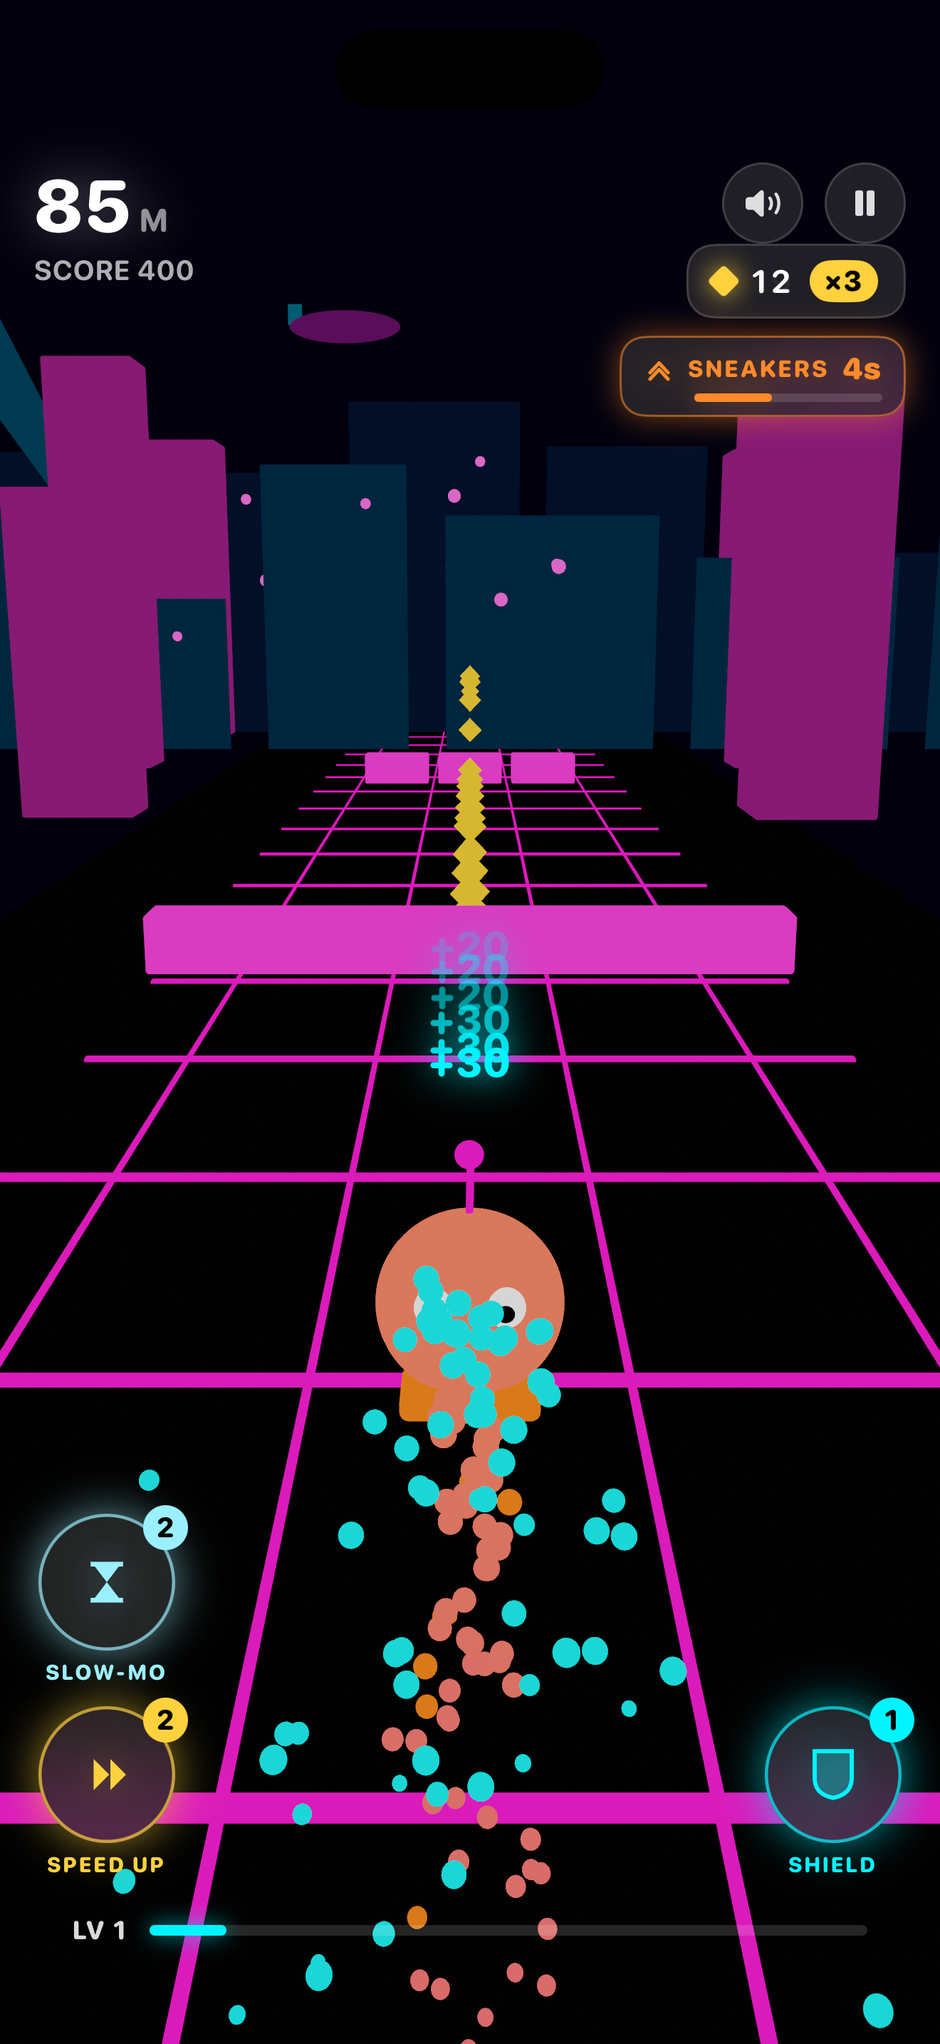
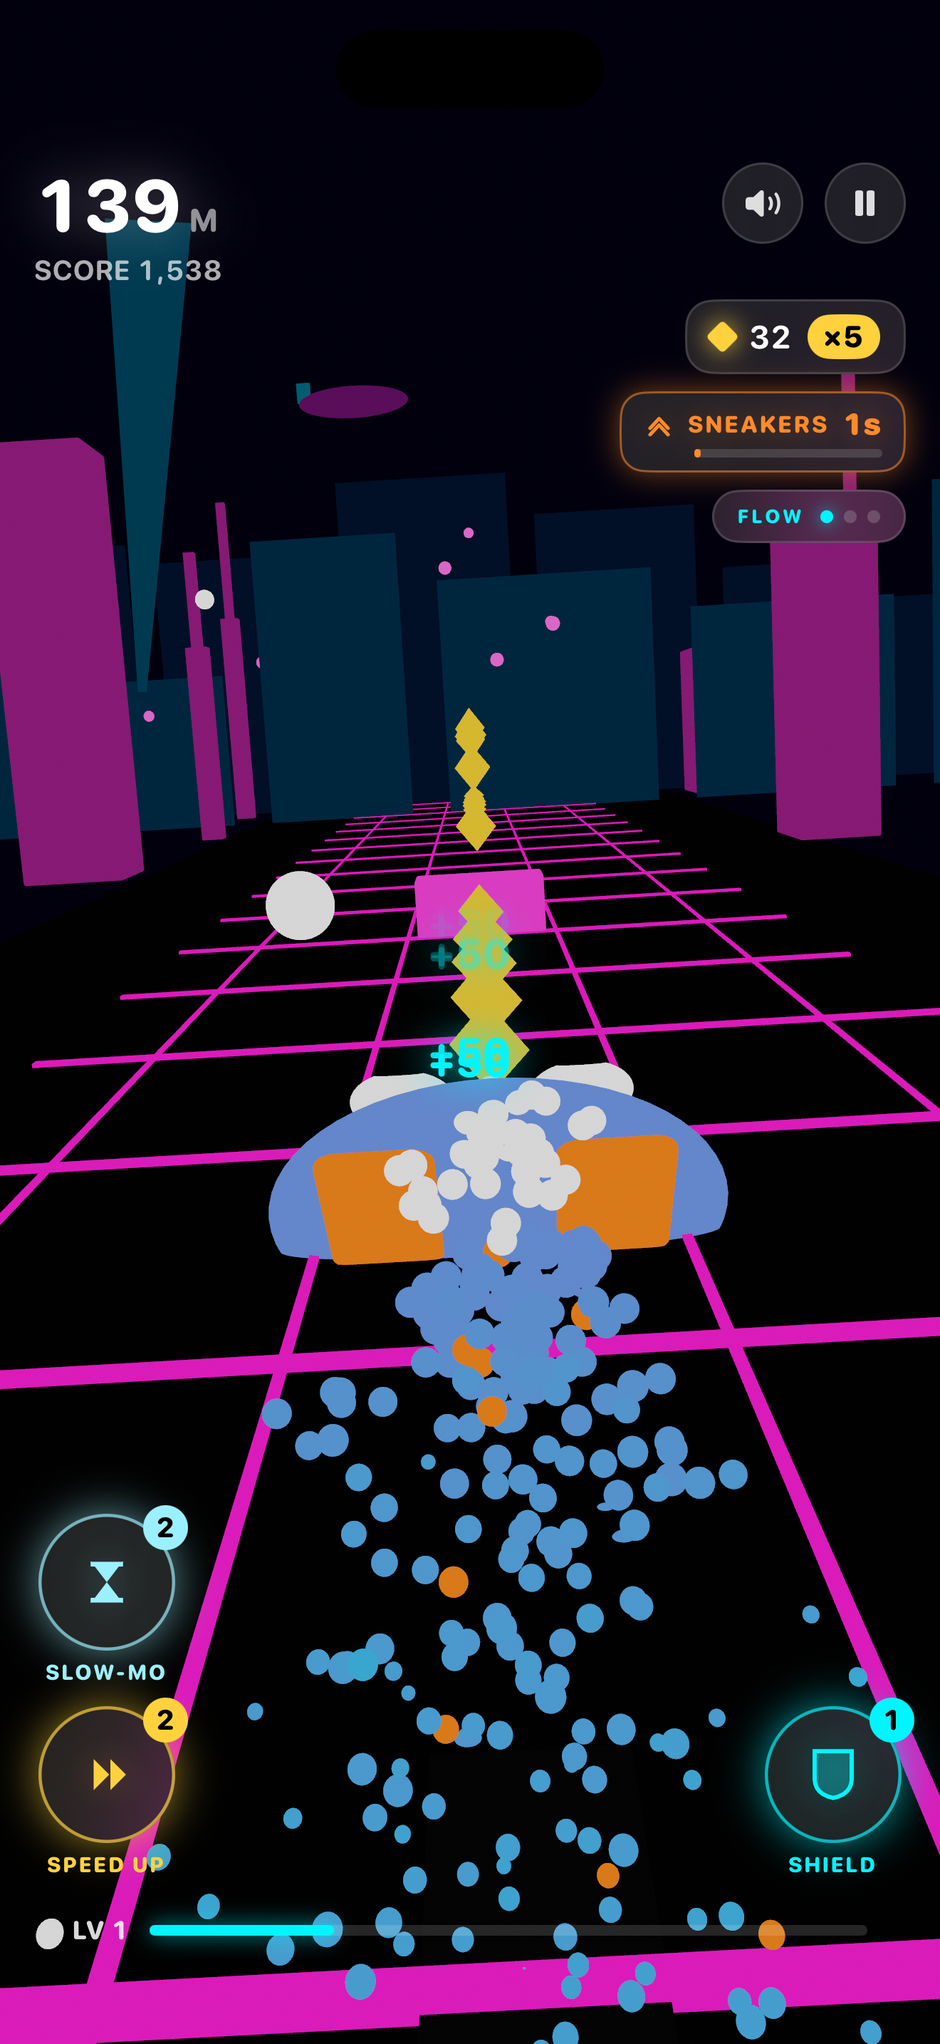
docs: rework README for the current v1.6 build — fresh screenshots + data
- Masthead/intro updated: twelve evolving worlds, the full meta-game, current build v1.6,
  196 tests, iPhone SE → 17 Pro Max.
- Walkthrough refreshed with six current-build captures (consistent Monarch character across
  worlds — reinforces decree 1 — deeper track, current HUD, coin-through-gap, game-over).
- v1.6 section rewritten to cover the whole line (crests/auras, carousel, glyphs + Power-Ups
  catalog, coin routing, gauntlet fairness, camera follow, longer track, one music bed,
  world-confirm, 20-agent QA, responsive) with a refreshed feature grid incl. world-confirm
  + an iPhone SE responsive shot.
- Numbers corrected: 14 patterns, 185 unit / 196 total tests, layoutVersion 7.
- Status: Mac build + full suite marked done; App Store gate links the new detailed guide.
- Shipping points to docs/APP_STORE_SETUP.md. Removed orphaned old golden-path screenshots.

diff --git a/README.md b/README.md
@@ -4,12 +4,14 @@
 
 # PRISM RUSH ⚡ — Native iOS
 
-**A neon, three-world, three-lane hyperspeed endless runner for iPhone.**
-Swipe lanes, jump, slide. Chain gem streaks, thread near-misses, dodge moving walls.
-Every mesh, every sound, and even the app icon is **generated in code** — zero hand-authored binary
-assets (the lone icon PNG is generated by `Tools/gen_icon.swift`).
+**A neon, twelve-world, three-lane hyperspeed endless runner for iPhone.**
+Swipe lanes, jump, slide. Chain gem streaks, thread near-misses, dodge moving walls. Collect a roster
+of glowing characters, deploy power-ups, and race a worldwide daily challenge. Every mesh, every sound,
+and even the app icon is **generated in code** — zero hand-authored binary assets (the lone icon PNG is
+generated by `Tools/gen_icon.swift`).
 
-Built with **Swift 6 · SwiftUI · RealityKit**, ground-up by [Claude Code](https://claude.com/claude-code).
+Built with **Swift 6 · SwiftUI · RealityKit**, ground-up by [Claude Code](https://claude.com/claude-code).<br>
+Current build: **v1.6** · **196 tests green** (185 unit + 11 XCUITest) · iPhone SE → 17 Pro Max · ready for the App Store gate.
 
 </div>
 
@@ -17,44 +19,53 @@ Built with **Swift 6 · SwiftUI · RealityKit**, ground-up by [Claude Code](http
 
 ## What it is
 
-Prism Rush is a native port of a shipped Three.js web prototype, rebuilt as a real iOS game. A tiny
-glowing slime rides a three-lane track that accelerates the longer you survive. Collect gems to build a
-streak multiplier (×1 → ×5), squeeze past tall blocks for **CLOSE** bonuses, slide under bars for
-**SLICK** ones, and grab Shield / Magnet pickups. Three world families — Neon Metropolis, Crystal
-Caverns, Solar Sands — crossfade around you every 800 m, and each successive cycle visibly
-*evolves* them: the palette hue-rotates, the atmosphere deepens, and the synthwave bed thickens, so
-world 7 reads as a hotter, denser take on its family rather than the same art again.
+Prism Rush started as a native port of a shipped Three.js web prototype and grew into a full
+free-to-play arcade runner. A glowing character rides a three-lane track that accelerates the longer
+you survive. Collect gems to build a streak multiplier (×1 → ×5), squeeze past tall blocks for
+**CLOSE** bonuses, slide under bars for **SLICK** ones, grab Shield / Magnet / ×2-Coins / Slow-Mo /
+Super-Sneakers pickups, thread Prism Rings and ride Overdrive Pads. **Twelve distinct worlds** — Pulse
+City, Solar Sands, Ashfall, Borealis, Singularity… — crossfade around you every 800 m and then keep
+*evolving* each cycle (the palette hue-rotates, the atmosphere deepens, the synthwave bed thickens), so
+the run never ends and never looks the same. Your equipped character stays constant in every world
+(owner decree 1) — fixed colours, a signature trail, and a rarity-tier crest or aura.
+
+On top of the runner sits a full meta-game: a coin economy, a StoreKit-2 shop, a **24-character
+roster** with a swipeable select carousel, banked **deploy power-ups** + a pre-run loadout, a world
+checkpoint ladder, daily missions + tiered achievements, Sign in with Apple, iCloud save sync, and a
+worldwide **daily challenge** ranked on a recurring Game Center board.
 
 The interesting part isn't the game; it's how it's built. The entire simulation is a **pure,
 deterministic, renderer-agnostic Swift core** driven by a fixed 1/120 s timestep. Because a single seed
-fully determines a run, the spawner is **provably fair**: an automated bot clears 6,000 m on 200 distinct
-seeds with **zero unavoidable deaths**, enforced as a unit test.
+fully determines a run, the spawner is **provably fair**: an automated bot clears 200 distinct seeds to
+6,000 m (plus a 12,000 m deep soak) with **zero unavoidable deaths**, enforced as a unit test that
+gates every change to the obstacle stream.
 
 ---
 
 ## Walkthrough
 
-Every screenshot below is the **actual app running on an iPhone 17 Pro simulator**, driven end-to-end by
-the in-engine autopilot (the same bot used in the solvability tests) — real frames, real score, real
-collisions.
+Every screenshot is the **actual app on an iPhone 17 Pro Max simulator** (current v1.6 build), driven
+end-to-end by the in-engine autopilot — real frames, real score, real collisions. The *same* character
+rides every world (here **Monarch** — note its gold crown + orbiting aura): your pick never changes
+with the world (decree 1).
 
 <table>
 <tr>
-<td align="center"><img src="docs/screenshots/01_menu.png" width="210"><br><sub><b>1 · Title</b><br>Neon skyline + world select</sub></td>
-<td align="center"><img src="docs/screenshots/02_metropolis.png" width="210"><br><sub><b>2 · Neon Metropolis</b><br>Magenta grid, emissive towers</sub></td>
-<td align="center"><img src="docs/screenshots/03_caverns.png" width="210"><br><sub><b>3 · Crystal Caverns</b><br>World banner + crossfade + CLOSE near-miss</sub></td>
+<td align="center"><img src="docs/screenshots/01_menu.png" width="210"><br><sub><b>1 · Hub</b><br>Equipped character, pre-run loadout, FURTHEST → Worlds chip</sub></td>
+<td align="center"><img src="docs/screenshots/02_pulse.png" width="210"><br><sub><b>2 · Pulse City</b><br>Neon skyline, deep track, deploy buttons + coin trail</sub></td>
+<td align="center"><img src="docs/screenshots/03_sands.png" width="210"><br><sub><b>3 · Solar Sands</b><br>Coins thread the safe gap between the walls</sub></td>
 </tr>
 <tr>
-<td align="center"><img src="docs/screenshots/04_sands.png" width="210"><br><sub><b>4 · Solar Sands</b><br>Amber dunes + pyramids (24,970)</sub></td>
-<td align="center"><img src="docs/screenshots/05_game_over.png" width="210"><br><sub><b>5 · Shatter</b><br>Score freezes, new best</sub></td>
-<td align="center"><img src="docs/screenshots/00_icon.png" width="210"><br><sub><b>Icon</b><br>1024² Core Graphics, no text</sub></td>
+<td align="center"><img src="docs/screenshots/04_ashfall.png" width="210"><br><sub><b>4 · Ashfall</b><br>Volcano + lava sky (slow-mo deployed)</sub></td>
+<td align="center"><img src="docs/screenshots/05_borealis.png" width="210"><br><sub><b>5 · Borealis</b><br>Green aurora ribbons over a green grid</sub></td>
+<td align="center"><img src="docs/screenshots/06_gameover.png" width="210"><br><sub><b>6 · Shatter</b><br>Count-up score, NEW BEST, +XP, continue</sub></td>
 </tr>
 </table>
 
-> The three world families **crossfade around the player** every 800 m and **evolve each cycle**
-> (hue rotation, deepening atmosphere, denser sky, thicker music — a pure function of the absolute
-> world ordinal) — each with its own palette, obstacle tints, and decor silhouette, all from the
-> same code.
+> All **twelve worlds crossfade around the player** every 800 m and **evolve each cycle** (hue
+> rotation, deepening atmosphere, denser sky, thicker music — a pure function of the absolute world
+> ordinal) — each with its own palette, obstacle tints, bespoke procedural sky, and decor silhouette,
+> all from the same code, zero assets.
 
 ---
 
@@ -66,14 +77,14 @@ checkpoints, secure accounts, and friends competition — driven by an `@Observa
 
 <table>
 <tr>
-<td align="center"><img src="docs/screenshots/11_characters.png" width="200"><br><sub><b>Characters</b><br>Buy/equip 24 procedural characters (rarity tiers, coin/level/IAP unlocks)</sub></td>
+<td align="center"><img src="docs/screenshots/11_characters.png" width="200"><br><sub><b>Characters</b><br>Swipeable carousel — 24 procedural characters, rarity-tier crests/auras, coin/level/IAP unlocks</sub></td>
 <td align="center"><img src="docs/screenshots/12_shop.png" width="200"><br><sub><b>Shop</b><br>StoreKit 2 IAP — coin packs, Double Coins, premium skin</sub></td>
 <td align="center"><img src="docs/screenshots/13_worlds.png" width="200"><br><sub><b>Worlds</b><br>Checkpoint start from any reached world</sub></td>
 </tr>
 <tr>
 <td align="center"><img src="docs/screenshots/14_profile.png" width="200"><br><sub><b>Profile</b><br>Sign in with Apple · stats · friends leaderboard</sub></td>
 <td align="center"><img src="docs/screenshots/10_slide.png" width="200"><br><sub><b>Slide</b><br>Pancake-lean pose + ground dust + SLICK bonus</sub></td>
-<td valign="center"><sub>• Coins earned per run (gems + distance, ×2 with Double Coins)<br>• Game Center leaderboard `prismrush.best`<br>• Sign in with Apple + iCloud save sync<br>• Data-driven catalogs (skins / IAP) — easy to extend<br>• 1024² code-generated app icon, zero asset files</sub></td>
+<td valign="center"><sub>• Coins earned per run (gems + distance, ×2 with Double Coins)<br>• Banked deploy power-ups + a pre-run loadout<br>• Game Center: all-time `prismrush.best` + a recurring daily-challenge board<br>• Sign in with Apple + iCloud save sync<br>• Data-driven catalogs (skins / IAP) — easy to extend<br>• 1024² code-generated app icon, zero asset files</sub></td>
 </tr>
 </table>
 
@@ -296,43 +307,57 @@ expected `DailyChallenge.layoutVersion` 2 → 3 bump (its golden was pre-armed a
 
 ---
 
-## v1.6 — Power-ups, Polish & Progression
+## v1.6 — Power-ups, Polish & Progression *(current build)*
 
-A large owner-driven pass, fed by a live play session, that made the meta-game *legible* and the
-roster *covetable*. **Subway-style coin routing** — a gem breadcrumb now leads through every gap into
-the pattern's safe entry lane, so following the coins is always a takeable route. The **rarity ladder
-is finally visible on the characters themselves**: common runners stay plain, rares gain a creature
-feature (cat ears / floppy ears / dorsal fin), epics a bold crest (horns / crown), and the four
-legendaries a signature crest **plus an orbiting aura ring** — all cosmetic, never an advantage. The
-single equipped card became a **swipeable carousel** through all 24 characters, each page showing its
-unlock requirement *and a live progress bar*. Power-up icons are now **bespoke procedural glyphs** (no
-SF Symbols), shared by the HUD, the corner deploy buttons, and a new **Power-Ups catalog** that
-documents every pickup, deploy and pre-run perk. Coin-spend packs get a **reveal burst** on purchase.
+A large, multi-round, owner-driven pass — fed by live play sessions — that made the meta-game
+*legible*, the roster *covetable*, and the feel *fair*. The headline work:
 
-Every screenshot is the **actual app on an iPhone 17 Pro Max simulator**, driven through the launch
-hooks (`PR_SCREEN` / `PR_FOCUS` / `PR_SKIN` / `PR_AUTOPLAY` / `PR_MYSTERYBOX` / `PR_BUYPACK` / `PR_POWERUPS`).
+- **Rarity ladder, visible on the characters.** Common runners stay plain; rares gain a creature
+  feature (cat ears / floppy ears / dorsal fin); epics a bold crest (horns / crown); the four
+  legendaries a signature crest **plus an orbiting aura ring** — drawn identically by the 2-D select
+  preview and the in-run 3-D rig (decree 2), all cosmetic, never an advantage.
+- **Character select is now a swipeable carousel** through all 24 characters, each page showing its
+  unlock requirement *and a live progress bar*.
+- **Bespoke procedural power-up glyphs** (no SF Symbols) shared by the HUD, the corner deploy buttons,
+  and a new **Power-Ups catalog** documenting every pickup, deploy & pre-run perk; coin-spend packs get
+  a **reveal burst** on purchase, and the **Mystery Box** shows honest odds.
+- **Coins are the path.** A gem breadcrumb routes through every gap into each pattern's safe lane and
+  *through* the obstacle (Subway-style), so following the coins is always a takeable route.
+- **Feel + fairness.** A 5-agent audit found the catalogue's one human-unfair adjacency (a slide→jump
+  in the gauntlet) and widened it; anti-repeat now avoids the last *two* patterns (less repetitive);
+  one consistent in-run music bed (no jarring per-world switches); the **camera follows high/boots
+  jumps**; the track draws **further into the distance**; bigger, easier pause/mute buttons.
+- **World select asks first** — tapping a world expands into a PLAY-confirm card instead of launching
+  instantly; the hub's "FURTHEST → Worlds" chip no longer masquerades as the current world.
+- **Verified responsive** iPhone SE (375×667) → 17 Pro Max, iPhone-only + portrait-locked. A 20-agent
+  adversarial QA pass swept the new code (Reduce-Motion gaps, a Daily-Rush deploy-fairness hole, the
+  can't-afford flash, a11y labels) — all fixed.
+
+Every screenshot is the **actual app on an iPhone 17 Pro Max simulator** (plus an SE for the
+responsive shot), driven through the launch hooks (`PR_SCREEN` / `PR_FOCUS` / `PR_SKIN` / `PR_AUTOPLAY`
+/ `PR_MYSTERYBOX` / `PR_BUYPACK` / `PR_POWERUPS` / `PR_PLAYCONFIRM`).
 
 <table>
 <tr>
-<td align="center"><img src="docs/screenshots/20_carousel.png" width="200"><br><sub><b>1 · Character carousel</b><br>Swipe all 24 — crest + rarity dots + a live unlock progress bar (C3)</sub></td>
-<td align="center"><img src="docs/screenshots/25_aura_run.png" width="200"><br><sub><b>2 · Legendary in-run</b><br>Monarch's gold crown + orbiting aura on the 3D rig (C2) — previews never lie</sub></td>
-<td align="center"><img src="docs/screenshots/24_run_glyphs.png" width="200"><br><sub><b>3 · Bespoke glyphs + coin trail</b><br>Custom power-up icons, thumb-reach deploy buttons, Subway-style coin route (P3/G1)</sub></td>
+<td align="center"><img src="docs/screenshots/20_carousel.png" width="200"><br><sub><b>1 · Character carousel</b><br>Swipe all 24 — crest + rarity dots + a live unlock progress bar</sub></td>
+<td align="center"><img src="docs/screenshots/24_run_glyphs.png" width="200"><br><sub><b>2 · Glyphs + coin trail</b><br>Bespoke power-up icons, thumb-reach deploy buttons, FLOW meter, Subway-style coins</sub></td>
+<td align="center"><img src="docs/screenshots/21_powerups.png" width="200"><br><sub><b>3 · Power-Ups catalog</b><br>Every pickup, deploy & loadout perk — durations from <code>Tuning</code></sub></td>
 </tr>
 <tr>
-<td align="center"><img src="docs/screenshots/21_powerups.png" width="200"><br><sub><b>4 · Power-Ups catalog</b><br>Every pickup, deploy & loadout perk — durations from <code>Tuning</code></sub></td>
-<td align="center"><img src="docs/screenshots/22_mystery.png" width="200"><br><sub><b>5 · Mystery Box</b><br>Honest, visible odds (decree 5) + a 1,200-coin jackpot</sub></td>
-<td align="center"><img src="docs/screenshots/23_packreveal.png" width="200"><br><sub><b>6 · Pack reveal</b><br>A ring/spark/medallion burst confirms exactly what landed (S1)</sub></td>
+<td align="center"><img src="docs/screenshots/22_mystery.png" width="200"><br><sub><b>4 · Mystery Box</b><br>Honest, visible odds (decree 5) + a 1,200-coin jackpot</sub></td>
+<td align="center"><img src="docs/screenshots/27_worldconfirm.png" width="200"><br><sub><b>5 · World confirm</b><br>Tapping a world expands into a PLAY card — no straight-to-gameplay</sub></td>
+<td align="center"><img src="docs/screenshots/28_responsive.png" width="200"><br><sub><b>6 · iPhone SE</b><br>The full HUD + controls fit the smallest supported screen</sub></td>
 </tr>
 </table>
 
-The load-bearing engineering decision was **path-aware coin routing without breaking determinism**.
-Coins must trace a takeable line, but a naïve centre breadcrumb walks the player into centre obstacles.
-The spawner now reads each freshly-built pattern, picks a laterally-safe entry lane (no tall / moving
-wall / split-bar cover in the first ~8.5 m), and lays the breadcrumb there — using only the
-already-computed spawns and fixed spacing, so it consumes **zero RNG**: the seeded stream and the pinned
-`PatternOrderTests` counts are byte-identical. The added gems are still new track entities, so the
-shared daily seed reshuffles — the expected `DailyChallenge.layoutVersion` 4 → 5 bump, goldens
-re-pinned, with the 200-seed solvability bot and the 12 k-metre deep soak staying green.
+The load-bearing engineering theme across v1.6 was **changing the obstacle stream without breaking
+determinism**. Every spawn change is gated by the 200-seed solvability bot + a 12,000 m deep soak, and
+batched into `DailyChallenge.layoutVersion` bumps (now at **7**) with daily-challenge goldens recomputed
+independently from the SplitMix64 seed formula and cross-checked against pre-armed pins. The coin
+routing and the gauntlet fairness widen were both done **RNG-neutral** (only fixed offsets / the
+already-computed spawns move), so the pinned `PatternOrderTests` per-pattern RNG counts stay
+byte-identical — the seed reshuffles only because the shared track *gains/moves entities*, never
+because the RNG draw order changed.
 
 ---
 
@@ -345,7 +370,7 @@ re-pinned, with the 200-seed solvability bot and the 12 k-metre deep soak stayin
    ┌──────────────────────────────┐   snapshot   ┌────────────────────────────┐
    │  Core/  (pure Swift)          │ ───────────▶ │  Render/  RealityKit        │
    │  • GameCore  (1/120 s tick)   │              │  • RealityRenderer          │
-   │  • Spawner + 12 patterns      │   FXEvent    │  • EntityPools (by kind)    │
+   │  • Spawner + 14 patterns      │   FXEvent    │  • EntityPools (by kind)    │
    │  • Collisions (pure preds)    │ ───────────▶ │  • ProceduralMesh           │
    │  • SplitMix64 RNG (seeded)    │              │  + UI/ SwiftUI HUD/overlays │
    │  • Autopilot (greedy bot)     │              │                            │
@@ -364,13 +389,13 @@ re-pinned, with the 200-seed solvability bot and the 12 k-metre deep soak stayin
 
 ```
 PrismRush/
-  App/      SwiftUI entry + root             Render/Reality/  RealityRenderer, EntityPools, ProceduralMesh
-  Core/     GameCore, Spawner, 12 Patterns,  UI/              GameView, HUD, Menu, GameOver, Shop, Missions,
-            Tuning, RNG, Collisions,                          DailyChallenge, Settings, HowToPlay, …
-            Autopilot, DailyChallenge        Meta/            Profile, ProfileStore, Skin/MissionCatalog
+  App/      SwiftUI entry + root             Render/Reality/  RealityRenderer, EntityPools, ProceduralMesh, 12 Sky files
+  Core/     GameCore, Spawner, 14 Patterns,  UI/              GameView, HUD, Menu, GameOver, Shop, Missions, Characters,
+            Tuning, RNG, Collisions,                          PowerUps, MysteryBox, DailyChallenge, Settings, HowToPlay, …
+            Autopilot, DailyChallenge        Meta/            Profile, ProfileStore, Skin/MissionCatalog, ShopValue, XPCurve
   Audio/    Synth (pure DSP), SynthEngine,   IAP/             IAPCatalog, IAPManager (StoreKit 2)
             Music                            Services/        GameCenter, Account, Haptics
-Tests/CoreTests/  163 deterministic tests (most also run on Linux via Package.swift)   UITests/  11 XCUITests
+Tests/CoreTests/  185 unit tests (178 also run on Linux via Package.swift)   UITests/  11 XCUITests
 Tools/  build / ci / qa / screenshots / gen_icon
 ```
 
@@ -424,7 +449,7 @@ Watch the engine play itself (used for the screenshots above):
 SIMCTL_CHILD_PR_AUTOPLAY=1 xcrun simctl launch booted com.rayancheca.prismrush
 ```
 
-Run the full test suite — 174 on a Mac (163 unit incl. the 200-seed solvability bot and a 10-seed
+Run the full test suite — **196 on a Mac** (185 unit incl. the 200-seed solvability bot and a
 12,000 m deep soak, + 11 XCUITest interaction tests):
 
 ```bash
@@ -465,15 +490,17 @@ Built phase-by-phase, each gate verified by a real build + on-device screenshot 
 | E6 | Sign in with Apple + Game Center friends leaderboard | ✅ |
 | — | **v1.2 multi-agent overhaul** — Linux CI, bug sweep, new content, perf, a11y (see above) | ✅ |
 | — | **v1.3 → v1.5** — characters, progression, 12 evolving worlds, the power-up suite (see above) | ✅ |
-| — | **v1.6 Power-ups, Polish & Progression** — coin routing, rarity crests + auras, character carousel, bespoke glyphs + catalog, pack reveal | ✅ |
-| — | Mac build + visual pass · App Store archive · live IAP/accounts | ⏳ needs your Mac + Apple account |
+| — | **v1.6 Power-ups, Polish & Progression** — rarity crests/auras, character carousel, bespoke glyphs + Power-Ups catalog, coin-path routing, gauntlet fairness, camera follow, longer track, one music bed, world-confirm card, 20-agent QA pass, responsive SE → 17 Pro Max | ✅ |
+| — | Mac build + full suite (**196 green**) + visual/on-device pass | ✅ |
+| — | App Store archive · live IAP / accounts | ⏳ needs your Apple Developer account — full guide in [`docs/APP_STORE_SETUP.md`](docs/APP_STORE_SETUP.md) |
 
 ## Shipping (your Apple Developer account)
 
 Everything above builds, runs and tests on the simulator with no signing. To go live you (the
-account holder) do these once — the code is already wired for them. **The full step-by-step,
-copy-paste version (exact IAP table, leaderboard settings, privacy answers) is
-[`docs/SHIP_CHECKLIST.md`](docs/SHIP_CHECKLIST.md).**
+account holder) do these once — the code is already wired for them. **The full, zero-assumed-knowledge,
+step-by-step walkthrough (enrollment + paid-apps agreement, exact IAP table, leaderboard settings,
+privacy answers, archive & submit) is [`docs/APP_STORE_SETUP.md`](docs/APP_STORE_SETUP.md)** (the
+condensed one-pager is [`docs/SHIP_CHECKLIST.md`](docs/SHIP_CHECKLIST.md)).
 
 1. **Team ID** → `project.yml` `DEVELOPMENT_TEAM` — ✅ already set (`8M64JJQQAU`).
 2. **Capabilities** (Signing & Capabilities, and on developer.apple.com): In-App Purchase, Sign in
